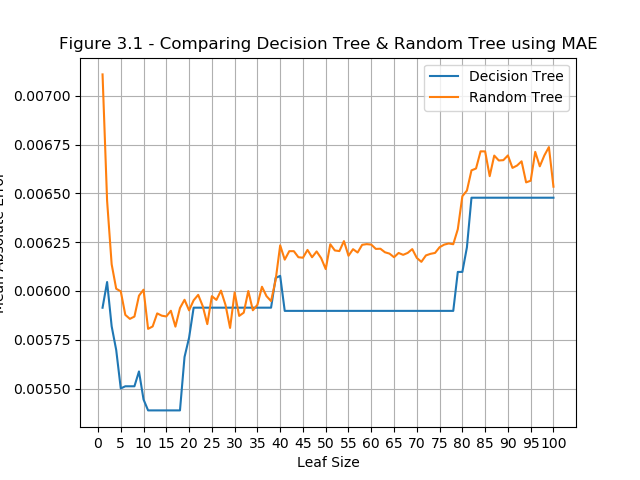
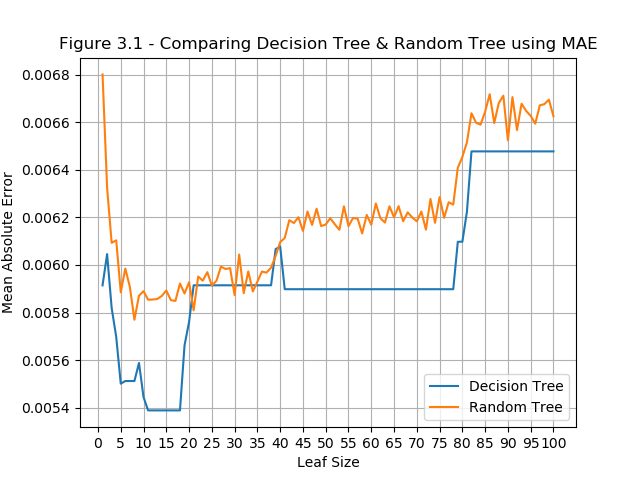
Final Fixes

diff --git a/assess_learners/testlearner.py b/assess_learners/testlearner.py
@@ -105,13 +105,13 @@ def experiment_3_1(train_x, train_y, test_x, test_y):
             learner = dtl.DTLearner(leaf_size=leafsize, verbose=False)
             learner.add_evidence(train_x, train_y)
             dt_predY = learner.query(test_x)
-            dt_mae = np.mean(np.abs((np.asarray(test_y) - np.asarray(dt_predY))))
+            dt_mae = np.mean(np.abs((test_y - dt_predY)))
             dt_mae_arr[leafsize-1][i] = dt_mae
 
             learner = rtl.RTLearner(leaf_size=leafsize, verbose=False)
             learner.add_evidence(train_x, train_y)
             rt_predY = learner.query(test_x)
-            rt_mae = np.mean(np.abs((np.asarray(test_y) - np.asarray(rt_predY))))
+            rt_mae = np.mean(np.abs((test_y - rt_predY)))
             rt_mae_arr[leafsize-1][i] = rt_mae
 
     dt_mae_mean = np.mean(dt_mae_arr, axis=1)

diff --git a/assess_learners/RTLearner.py b/assess_learners/RTLearner.py
@@ -6,7 +6,6 @@ class RTLearner(object):
     def __init__(self, leaf_size=1, verbose=False):
         self.leaf_size = leaf_size
         self.verbose = verbose
-        np.random.seed(903797718)
 
     def author(self):
         return 'vsanjeev6'
